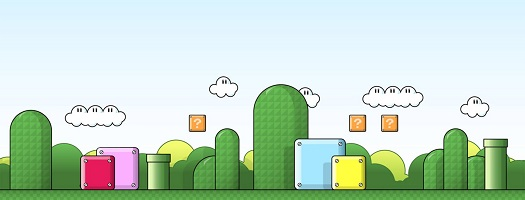
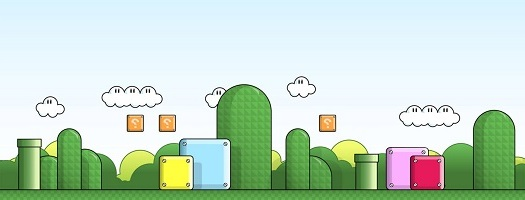
ajustes images

Changed region(s): [[0.0, 0.36, 1.0, 0.96], [0.6705, 0.48, 0.701, 0.51], [0.3048, 0.48, 0.3352, 0.51]]

diff --git a/css/game.css b/css/game.css
@@ -2,7 +2,7 @@
     position: absolute;
     width: 60px;
     height: 60px;
-    background-image: url(../assets/images/rex-2021.png);
+    background-image: url(../assets/images/t-rex.png);
     bottom: 5px;
     left: 40px;
 }
@@ -11,7 +11,7 @@
     position: absolute;
     width: 60px;
     height: 60px;
-    background-image: url(../assets/images/cactus-2021.png);
+    background-image: url(../assets/images/cacti.png);
     bottom: 5px;
 }
 
@@ -37,7 +37,7 @@
     margin: auto;
     position: relative;
     /*  */
-    background-image: url('../assets/images/background_mario.jpg');
+    background-image: url('../assets/images/t-rex-background.png');
     background-repeat: repeat-x;
     width: 800px;
     height: 200px;
